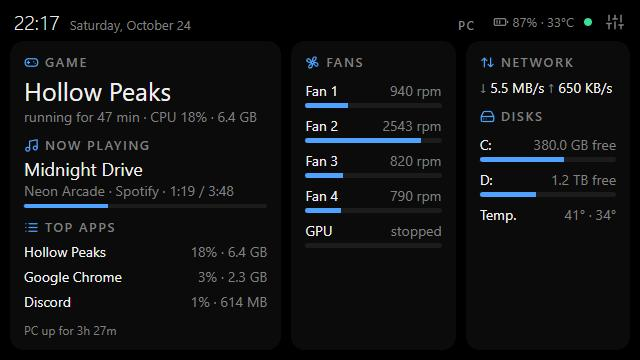
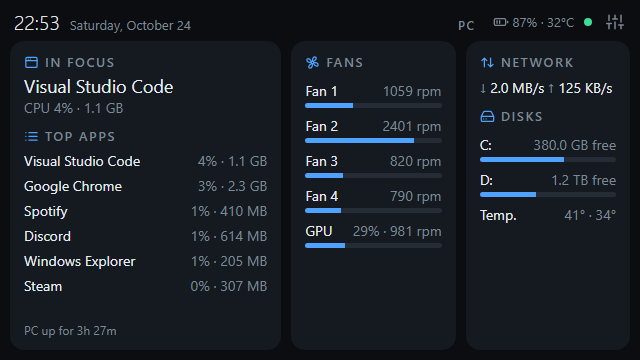
Demo art and screenshots of the music and game screens
- Original cover and game art for --demo (SVG, served with the page); the demo
  game comes and goes so game mode shows up too.
- New music, game and PC screenshots in the README.
- Top apps shows 6 programs; reduced-motion devices get no animations.
- Test that the page's SVGs are valid XML.

diff --git a/sparescreen/web/app.js b/sparescreen/web/app.js
@@ -946,7 +946,6 @@
     $("g-name").textContent = game.name;
     var meta = ["playing for " + duration(now - game.since)];
     if (known(game.cpu)) meta.push("CPU " + Math.round(game.cpu) + "%");
-    if (game.mem) meta.push(size(game.mem));
     $("g-meta").textContent = meta.join(" · ");
     setImage($("game-art"), $("game-art").parentNode, "has-art", game.art);
     setImage($("game-icon"), $("game-icon"), "shown", game.icon);

diff --git a/sparescreen/web/style.css b/sparescreen/web/style.css
@@ -448,3 +448,8 @@ html[data-theme="light"] {
   --ok: #12a150; --warn: #d48c00; --hot: #e5484d; --accent: #2f80ed;
 }
 html[data-theme="light"] .toast { box-shadow: 0 10px 30px rgba(0, 0, 0, .18); }
+
+/* Devices set to reduce motion: values jump instead of sliding */
+@media (prefers-reduced-motion: reduce) {
+  * { transition: none !important; animation: none !important; }
+}

diff --git a/sparescreen/demo.py b/sparescreen/demo.py
@@ -156,16 +156,21 @@ class DemoActivity:
 
     def read(self):
         playing = time.time() % self.CYCLE < self.PLAYING
+        game = {"name": "Hollow Peaks", "cpu": round(_wave(11, 18, 32), 1), "mem": 6.4 * GB}
+        apps = [
+            {"name": "Google Chrome", "cpu": 3.1, "mem": 2.3 * GB},
+            {"name": "Visual Studio Code", "cpu": round(_wave(17, 1, 6), 1), "mem": 1.1 * GB},
+            {"name": "Spotify", "cpu": 1.4, "mem": 0.4 * GB},
+            {"name": "Discord", "cpu": 1.2, "mem": 0.6 * GB},
+            {"name": "Windows Explorer", "cpu": 0.6, "mem": 0.2 * GB},
+            {"name": "Steam", "cpu": 0.4, "mem": 0.3 * GB},
+        ]
+        if not playing:
+            return {"game": None, "focus": apps[1], "top": sorted(apps, key=lambda a: -a["cpu"])}
         return {
-            "game": {"name": "Hollow Peaks", "cpu": round(_wave(11, 18, 32), 1), "mem": 6.4 * GB, "since": self.started,
-                     "art": None, "icon": None} if playing else None,
-            "focus": {"name": "Hollow Peaks", "cpu": round(_wave(11, 18, 32), 1), "mem": 6.4 * GB},
-            "top": [
-                {"name": "Hollow Peaks", "cpu": round(_wave(11, 18, 32), 1), "mem": 6.4 * GB},
-                {"name": "Google Chrome", "cpu": 3.1, "mem": 2.3 * GB},
-                {"name": "Discord", "cpu": 1.2, "mem": 0.6 * GB},
-                {"name": "Visual Studio Code", "cpu": 0.8, "mem": 1.1 * GB},
-            ],
+            "game": dict(game, since=self.started, art="demo-game.svg", icon="demo-game-icon.svg"),
+            "focus": game,
+            "top": [game] + apps[:5],
         }
 
 
@@ -185,7 +190,7 @@ class DemoMedia:
         return {"available": True, "playing": True, "title": "Midnight Drive", "artist": "Neon Arcade",
                 "album": "Night Shift", "app": "Spotify", "status": "playing",
                 "position": round(time.time() % self.DURATION, 1), "duration": self.DURATION,
-                "art": None, "app_icon": None}
+                "art": "demo-cover.svg", "app_icon": None}
 
 
 def demo_sources():

diff --git a/tests/test_web.py b/tests/test_web.py
@@ -1,7 +1,8 @@
-"""Guards for the page: old-browser rules and element ids used by the script."""
+"""Guards for the page: old-browser rules, element ids used by the script, valid images."""
 
 import re
 import unittest
+import xml.dom.minidom
 from pathlib import Path
 
 WEB = Path(__file__).parent.parent / "sparescreen" / "web"
@@ -50,6 +51,15 @@ class ElementIdsTest(unittest.TestCase):
         used = set(re.findall(r'\$\("([\w-]+)"\)', js))
         self.assertTrue(used)
         self.assertEqual(used - ids, set())
+
+
+class ImagesTest(unittest.TestCase):
+    def test_svgs_are_valid_xml(self):
+        # A broken SVG (e.g. "--" inside a comment) just shows as a broken image.
+        svgs = list(WEB.glob("*.svg"))
+        self.assertTrue(svgs)
+        for svg in svgs:
+            xml.dom.minidom.parse(str(svg))
 
 
 if __name__ == "__main__":

diff --git a/sparescreen/activity.py b/sparescreen/activity.py
@@ -201,7 +201,7 @@ class ActivitySource:
     name = "activity"
     IGNORE = {"system idle process", "idle", "system", "registry", "memory compression"}
 
-    def __init__(self, refresh=3, top=4):
+    def __init__(self, refresh=3, top=6):
         self.refresh = refresh
         self.top = top
         self.cores = psutil.cpu_count() or 1

diff --git a/README.md b/README.md
@@ -18,7 +18,11 @@
 <p align="center">
   <img src="docs/screenshots/hardware.png" width="32%" alt="Hardware screen: CPU, GPU and RAM usage, temperature and clocks">
   <img src="docs/screenshots/ai.png" width="32%" alt="AI screen: Claude Code and Codex usage limits and sessions">
-  <img src="docs/screenshots/pc.png" width="32%" alt="PC screen: running game, top apps, fans, network and disks">
+  <img src="docs/screenshots/pc.png" width="32%" alt="PC screen: app in focus, top apps, fans, network and disks">
+</p>
+<p align="center">
+  <img src="docs/screenshots/music.png" width="32%" alt="Music screen: album cover, title, artist, player and progress">
+  <img src="docs/screenshots/game.png" width="32%" alt="Game screen: game art and icon, play time, GPU, CPU, VRAM and RAM">
 </p>
 
 Turn that old phone in your drawer into a live dashboard for your computer.

diff --git a/CHANGELOG.md b/CHANGELOG.md
@@ -11,6 +11,10 @@ The format follows [Keep a Changelog](https://keepachangelog.com/) and versions 
 - The PC screen no longer repeats the game and now playing while they have their own
   screens (game mode on, Music screen on).
 - Bigger player name and icon on the Music screen.
+- Top apps shows 6 programs instead of 4.
+- `--demo` has an album cover and game art (original drawings), and its game comes and
+  goes so game mode can be seen.
+- Devices set to reduce motion get no animations.
 
 ## [0.4.0] - 2026-10-24
 
